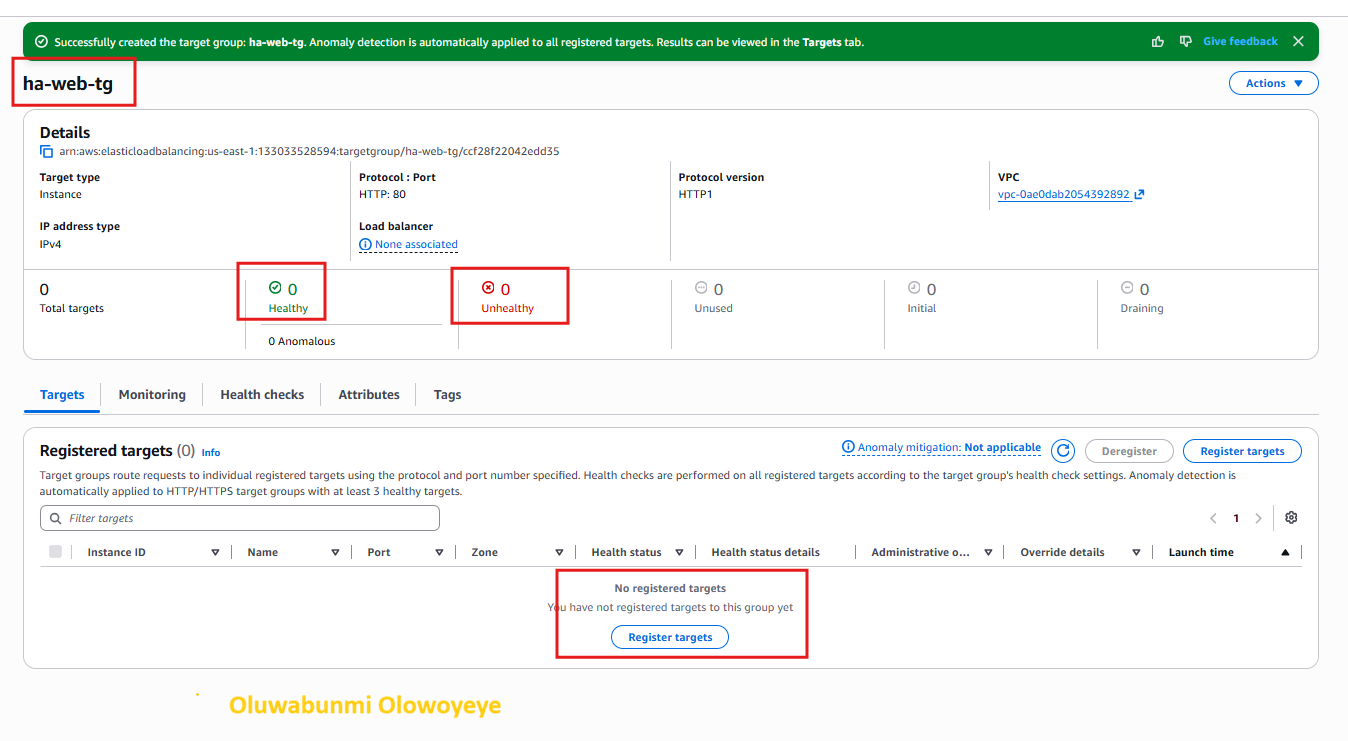
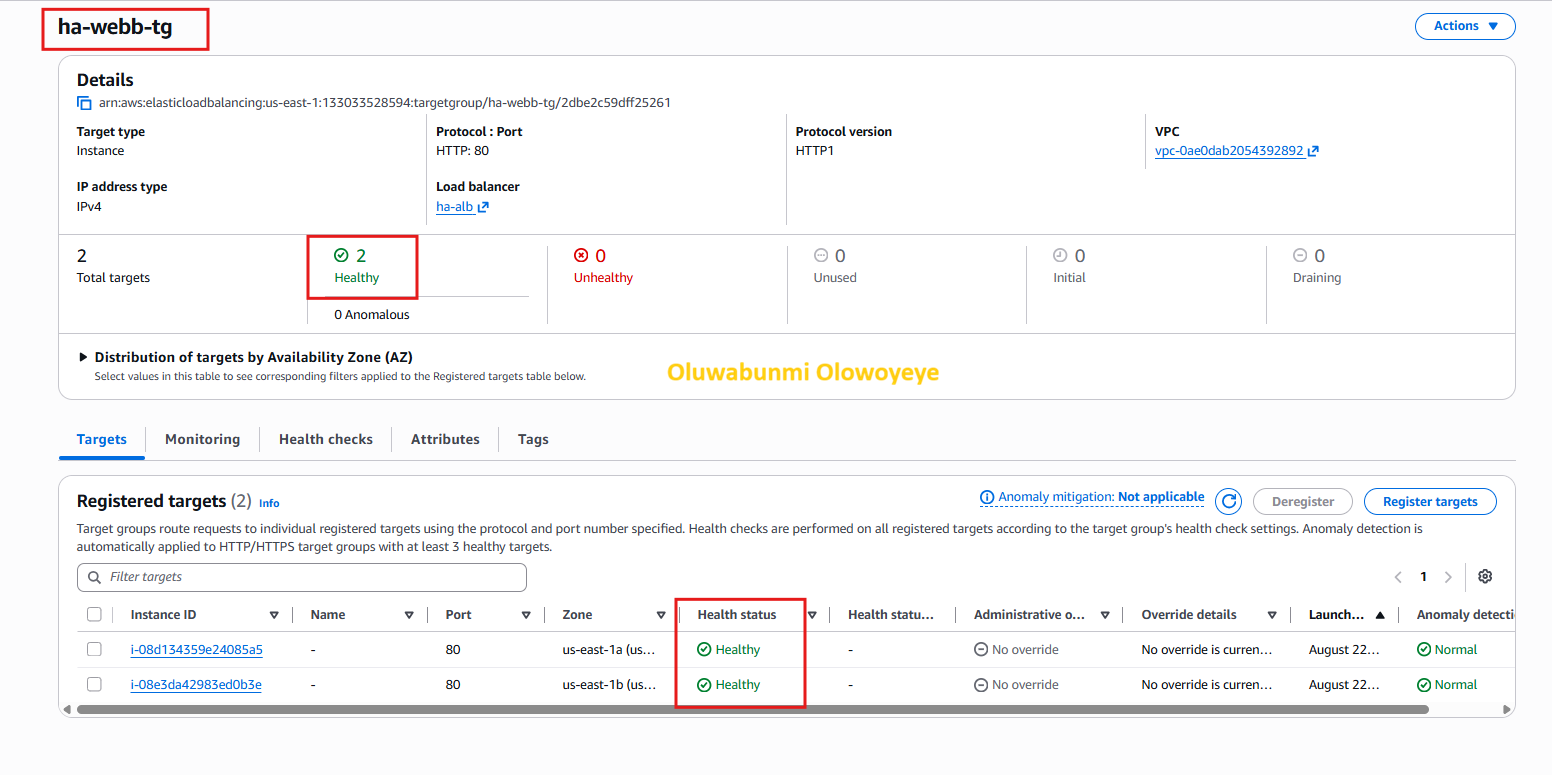
Assignment:week6&7 submission

diff --git a/week-06-aws-cloud/assignment-05-deploy-a-highly-available-two-tier-application-on-aws.md b/week-06-aws-cloud/assignment-05-deploy-a-highly-available-two-tier-application-on-aws.md
@@ -20,31 +20,31 @@ Build a VPC (10.0.0.0/16) with two public and two private subnets across two Ava
 
 #### Screenshot 1 — VPC details showing CIDR 10.0.0.0/16
 
-Add your screenshot here.
+![s1](screenshots/wk6-a5-s1.png)
 
 ---
 
 #### Screenshot 2 — Subnets list showing four subnets and their Availability Zones
 
-Add your screenshot here.
+![s2](screenshots/wk6-a5-s2.png)
 
 ---
 
 #### Screenshot 3 — Public route table showing the Internet Gateway route and both public-subnet associations
 
-Add your screenshot here.
+![s3](screenshots/wk6-a5-s3.png)
 
 ---
 
 #### Screenshot 4 — Private route table showing the NAT Gateway route and both private-subnet associations
 
-Add your screenshot here.
+![s4](screenshots/wk6-a5-s4.png)
 
 ---
 
 #### Screenshot 5 — NAT Gateway status showing Available and the Elastic IP
 
-Add your screenshot here.
+![s5](screenshots/wk6-a5-s5.png)
 
 ---
 
@@ -58,19 +58,19 @@ Create `ha-alb-sg` (HTTP public), `ha-web-sg` (HTTP only from `ha-alb-sg`, SSH f
 
 #### Screenshot 6 — ALB Security Group inbound rules
 
-Add your screenshot here.
+![s6](screenshots/wk6-a5-s6.png)
 
 ---
 
 #### Screenshot 7 — EC2 Security Group inbound rules showing the ALB Security Group reference and SSH from your IP
 
-Add your screenshot here.
+![s7](screenshots/wk6-a5-s7.png)
 
 ---
 
 #### Screenshot 8 — RDS Security Group inbound rule showing the database port allowed only from the EC2 Security Group
 
-Add your screenshot here.
+![s8](screenshots/wk6-a5-s8.png)
 
 ---
 
@@ -84,13 +84,13 @@ Launch a private, Multi-AZ RDS database (MySQL or PostgreSQL) using the private 
 
 #### Screenshot 9 — RDS summary showing Multi-AZ = Yes and Publicly accessible = No
 
-Add your screenshot here.
+![s9](screenshots/wk6-a5-s9.png)
 
 ---
 
 #### Screenshot 10 — RDS connectivity section showing the DB Subnet Group and Security Group
 
-Add your screenshot here.
+![s10](screenshots/wk6-a5-s10.png)
 
 ---
 
@@ -104,13 +104,13 @@ Create a Launch Template whose user data installs the web-server runtime, deploy
 
 #### Screenshot 11 — Launch Template details showing that user data exists, including a visible snippet
 
-Add your screenshot here.
+![s11](screenshots/wk6-a5-s11.png)
 
 ---
 
 #### Screenshot 12 — A running instance created from the template showing the application responds on port 80
 
-Add your screenshot here.
+![s12](screenshots/wk6-a5-s12.png)
 
 ---
 
@@ -124,13 +124,13 @@ Create an internet-facing ALB across both public subnets with an HTTP listener a
 
 #### Screenshot 13 — ALB details showing two public subnets in two Availability Zones
 
-Add your screenshot here.
+![s13](screenshots/wk6-a5-s13.png)
 
 ---
 
 #### Screenshot 14 — Target group showing at least one healthy target
 
-Add your screenshot here.
+![s14](screenshots/wk6-a5-s14.png)
 
 ---
 
@@ -144,13 +144,13 @@ Create an Auto Scaling Group from the Launch Template across both public subnets
 
 #### Screenshot 15 — Auto Scaling Group showing desired, minimum, and maximum capacity and the selected subnet Availability Zones
 
-Add your screenshot here.
+![s15](screenshots/wk6-a5-s15.png)
 
 ---
 
 #### Screenshot 16 — EC2 instances list showing two running instances in different Availability Zones
 
-Add your screenshot here.
+![s16](screenshots/wk6-a5-s16.png)
 
 ---
 
@@ -164,13 +164,13 @@ Confirm the application communicates with the RDS database through the ALB DNS n
 
 #### Screenshot 17 — Browser showing the application loaded through the ALB DNS name with the URL visible
 
-Add your screenshot here.
+![s17](screenshots/wk6-a5-s17.png)
 
 ---
 
 #### Screenshot 18 — Proof of a database write through a UI message or database query output
 
-Add your screenshot here.
+![s18](screenshots/wk6-a5-s18.png)
 
 ---
 
@@ -190,13 +190,13 @@ Add your screenshot here.
 
 #### Screenshot 20 — Target group showing healthy targets after replacement
 
-Add your screenshot here.
+![s20](screenshots/wk6-a5-s20.png)
 
 ---
 
 #### Screenshot 21 — Evidence that an instance was removed, detached, placed in Standby, or stopped in one Availability Zone
 
-Add your screenshot here.
+![s21](screenshots/wk6-a5-s21.png)
 
 ---
 
@@ -216,7 +216,7 @@ Summarize the VPC/subnet layout, the ALB and Auto Scaling Group setup, the priva
 
 #### Screenshot 23 — A simple architecture diagram (hand-drawn is fine), or an AWS console overview showing the components
 
-Add your screenshot here.
+![Diagram](screenshots/ArchDiag.png)
 
 ---
 
@@ -224,7 +224,23 @@ Add your screenshot here.
 
 Write a short summary covering the network, ALB/ASG setup, RDS setup, and the results of Test A and Test B.
 
-Write your answer here.
+#### Architecture and Test Results Summary
+
+I deployed a highly available two-tier web application within an AWS VPC using the `10.0.0.0/16` CIDR across two Availability Zones. The network consists of two public subnets and two private subnets, with an Internet Gateway providing internet connectivity and a NAT Gateway providing outbound connectivity for resources in the private subnets.
+
+An internet-facing Application Load Balancer was deployed across both public subnets and connected to an Auto Scaling Group. The ASG was configured with a desired capacity of 2, a minimum of 2, and a maximum of 4 instances, allowing the web tier to automatically maintain capacity and distribute workloads across the two Availability Zones.
+
+The database tier uses a private Multi-AZ Amazon RDS database. The database is not publicly accessible, and security groups were configured using least-privilege access so that only the web tier can communicate with the database.
+
+#### High Availability Test Results
+
+**Test A – EC2 Instance Failure:** I terminated one of the web-tier EC2 instances. The Auto Scaling Group detected the reduced capacity and automatically launched a replacement instance. The Application Load Balancer continued routing traffic to healthy targets, and the application remained available.
+
+**Test B – Availability Zone Impact:** I simulated an Availability Zone impact by stopping/removing web-tier capacity in one Availability Zone. The application remained accessible through the Application Load Balancer because healthy resources in the other Availability Zone continued serving traffic.
+
+#### Overall Result
+
+Both failure tests demonstrated that the application can tolerate the loss of an individual web instance and reduced capacity in one Availability Zone while maintaining application availability. This project strengthened my practical understanding of AWS networking, load balancing, Auto Scaling, Multi-AZ databases, security, and highly available cloud architecture.
 
 ---
 
@@ -240,13 +256,13 @@ Publish a LinkedIn post about the high-availability build, including the ALB URL
 
 Paste your LinkedIn post URL here:
 
-`Add your URL here`
+`https://lnkd.in/p/epxH6-X6`
 
 ---
 
 #### Screenshot — Published LinkedIn post
 
-Add your screenshot here.
+![linkedin](screenshots/linkedin.png)
 
 ---
 

diff --git a/week-07-azure-cloud/assignment-03-design-a-three-tier-network-with-load-balancer-on-azure.md b/week-07-azure-cloud/assignment-03-design-a-three-tier-network-with-load-balancer-on-azure.md
@@ -20,7 +20,7 @@ Create `eb-demo-vnet` (10.0.0.0/16) with `web-subnet` (10.0.1.0/24), `app-subnet
 
 #### Screenshot 1 — Subnet configuration screen showing the three subnets and Bastion subnet (if enabled)
 
-Add your screenshot here.
+![s1](screenshots/a3-s1.png)
 
 ---
 
@@ -44,7 +44,7 @@ Create Standard Public Load Balancer `web-public-elb` with frontend IP `web-elb-
 
 #### Screenshot 2 — Load Balancer frontend IP configuration
 
-Add your screenshot here.
+![s2](screenshots/a3-s2.png)
 
 ---
 
@@ -58,7 +58,7 @@ Confirm the NGINX default page is reachable through the Load Balancer's public I
 
 #### Screenshot 3 — Browser showing the NGINX welcome page through the Load Balancer Public IP
 
-Add your screenshot here.
+![s3](screenshots/a3-s3.png)
 
 ---
 

diff --git a/week-07-azure-cloud/assignment-04-host-a-static-website-on-azure-storage.md b/week-07-azure-cloud/assignment-04-host-a-static-website-on-azure-storage.md
@@ -50,15 +50,14 @@ Open the primary endpoint URL and confirm the Mini Finance application, styling,
 
 #### Screenshot 1 — Mini Finance website running in the browser
 
-Add your screenshot here.
-
+![s1](screenshots/a4-s1.png)
 ---
 
 #### Website URL
 
 Paste the Azure Storage static website URL here:
 
-`Add your URL here`
+`https://minifinancebunmi0.z6.web.core.windows.net/`
 
 ---
 
